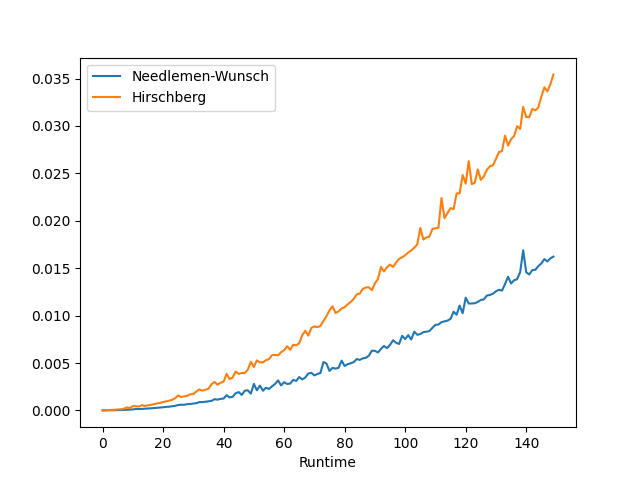
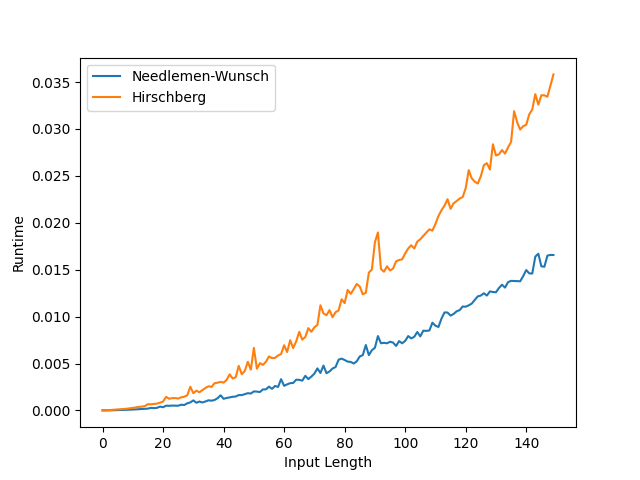
Updated README.md

diff --git a/experiments.py b/experiments.py
@@ -16,12 +16,6 @@ alph_to_int["C"] = 1
 alph_to_int["G"] = 2
 alph_to_int["T"] = 3
 
-# A = "ACGTA"
-# B = "CGTAT"
-
-# print(nw(A, B, scores, gap_pen, alph_to_int))
-# print(hirschberg(A, B, scores, gap_pen, alph_to_int))
-
 def random_string(str_size):
     out_str = ""
 
@@ -90,4 +84,4 @@ def memory_experiment(N):
     plt.ylabel("Space Usage")
     plt.show()
 
-memory_experiment(N)
+runtime_experiment(N)

diff --git a/README.md b/README.md
@@ -1,2 +1,44 @@
 # CS466FinalProject
 Implementing Hirschberg and Needleman-Wunsch Algorithms
+
+Running Hirschberg Method in hirschberg.py or Needlemen-Wunsch Method in needlemenwunsch.py:
+
+1. Define an input alphabet as a list of strings
+    
+    Ex: alph = ["A", "C", "G", "T"]
+
+2. Define a gap penalty integer variable 
+
+    Ex: gap_pen = -1
+
+3. Create a scoring matrix as a list of lists
+
+    Ex: scores = [[1,-1,-1,-1],[-1,1,-1,-1],[-1,-1,1,-1],[-1,-1,-1,1]]
+
+4. Create a alphabet to index mapping dictionary
+
+    Ex: alph_to_int = {}
+        alph_to_int["A"] = 0
+        alph_to_int["C"] = 1
+        alph_to_int["G"] = 2
+        alph_to_int["T"] = 3
+
+5. Define your input strings
+
+    Ex: A = "ATCGTA"
+        B = "TCTGAT"
+
+5. Call the Hirschberg or Needlemen-Wunsch method:
+    hirschberg(A, B, scores, gap_pen, alph_to_int)
+
+
+Running Runtime or Memory Experiments in experiments.py:
+
+1. Define an integer variable for the largest input sequence length
+    Ex: N = 150
+
+2. Call the runtime experiment function:
+    runtime_experiment(N)
+
+2. Call the memory experiment function:
+    memory_experiment(N)
